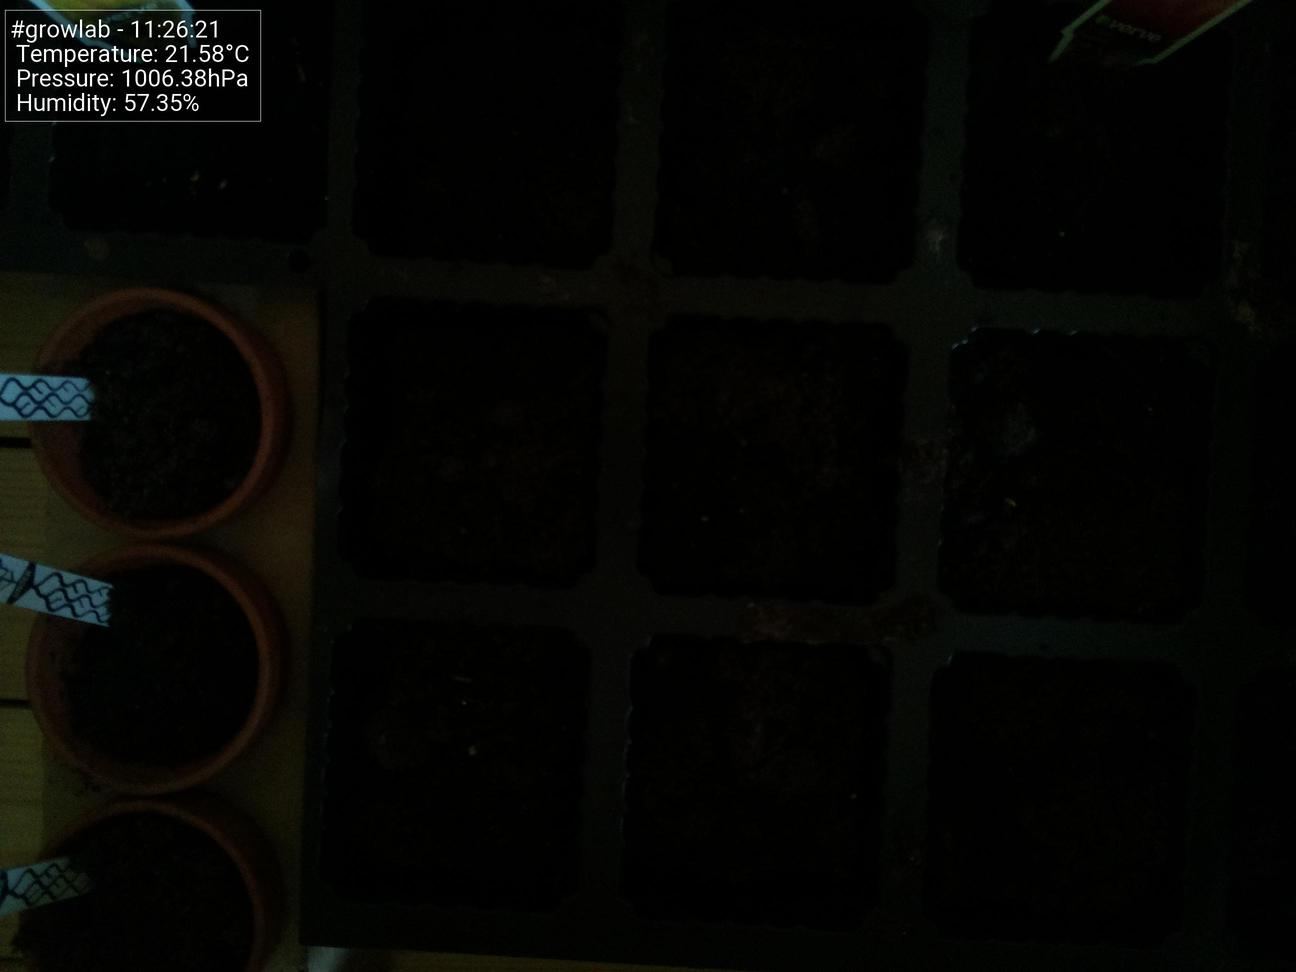
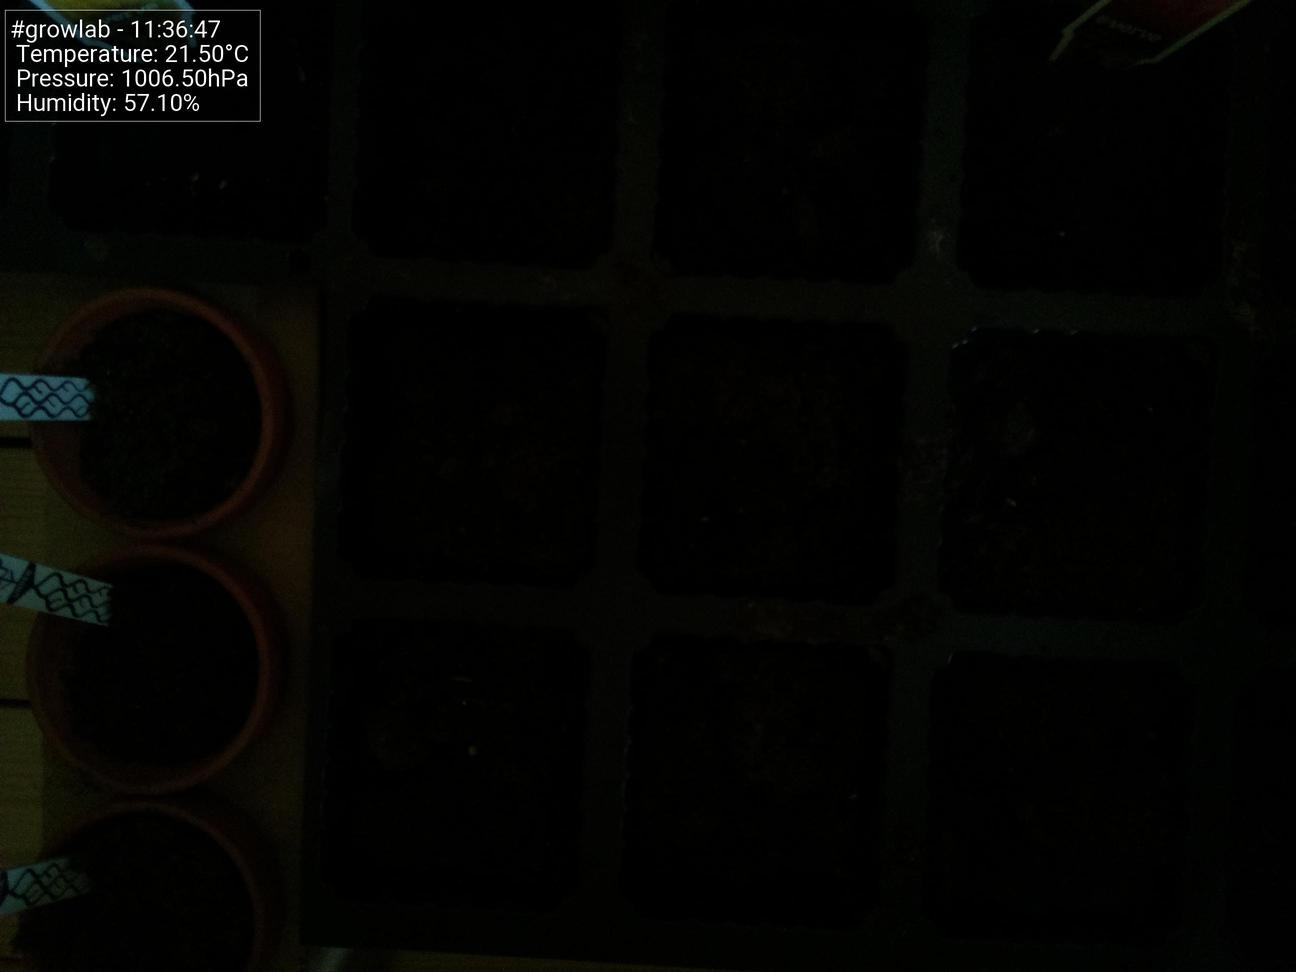
Update images at Wed 26 May 11:37:02 BST 2021

diff --git a/index.html b/index.html
@@ -47,19 +47,19 @@
                         <tbody>
                             <tr>
                                 <td>Time</td>
-                                <td>11:26:21</td>
+                                <td>11:36:47</td>
                             </tr>
                             <tr>
                                 <td>Temperature</td>
-                                <td>21.58°C</td>
+                                <td>21.50°C</td>
                             </tr>
                             <tr>
                                 <td>Humidity</td>
-                                <td>57.35%</td>
+                                <td>57.10%</td>
                             </tr>
                             <tr>
                                 <td>Pressure</td>
-                                <td>1006.38hPa</td>
+                                <td>1006.50hPa</td>
                             </tr>
                         </tbody>
                     </table>
@@ -67,7 +67,7 @@
 
                 <h5>Latest image</h5>
                 <div style="width: 85%;">
-                            <img class="figure-img img-fluid rounded" src="./preview.jpg?uid=1622024796.0991373">
+                            <img class="figure-img img-fluid rounded" src="./preview.jpg?uid=1622025421.5866303">
                 </div>
             </div>
         </div>
